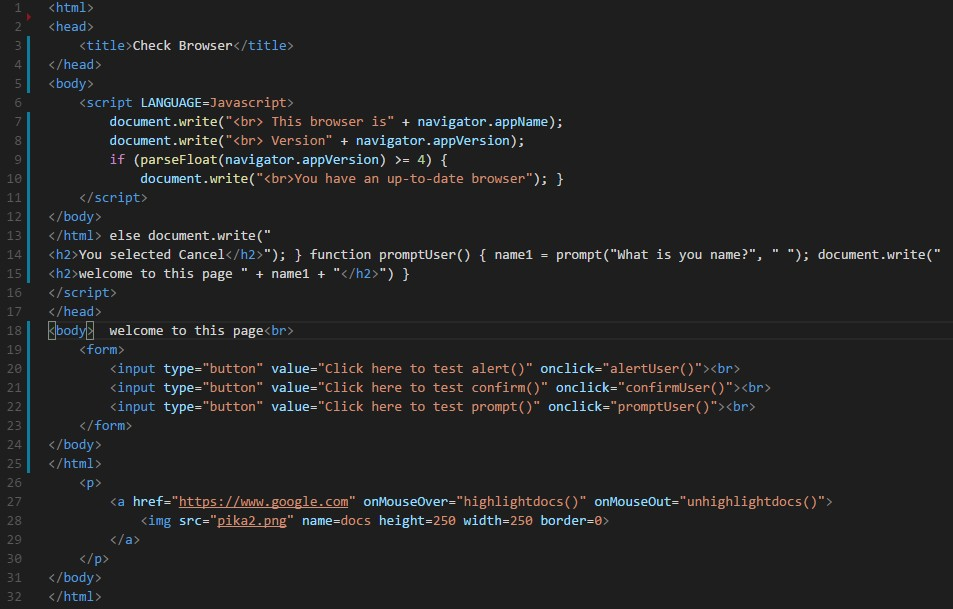
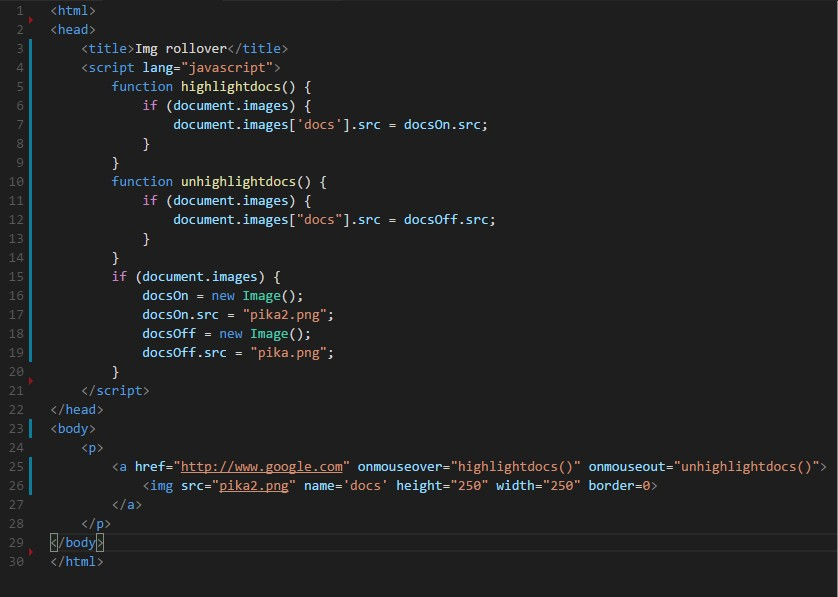
js08up

diff --git a/lab04/lab04.html b/lab04/lab04.html
@@ -298,11 +298,6 @@
                     <h4><b>อธิบาย Coad</b></h4>
                 </center>
                 <h5>7.สร้างฟังก์ชั่น windowHeight <br><br> 8.ตรวจสอบว่าเป็น Browser IE หรือไม่ <br><br> 9.ใช้เงื่อนไข if else ถ้าตรงให้คืนค่าความสูงหน้าจอมา<br><br> 10-11.ตรวจสอบว่าเป็น Browser Netscape หรือไม่<br><br> 12-13.ถ้าไม่ตรงเงื่อนไขให้คืนค่า 0 มา<br><br>                    16-17.ใช้ if else ตรวจสอบหน้าจอว่ามากกว่าหรือเท่ากับ 300 หรือไม่ ถ้าตรงเงื่อนไขให้ลิ้งไปแลป4<br><br> 20-21.ถ้าไม่เข้าเงื่อไขให้ลิ้งไปหน้า http://angsila.cs.buu.ac.th/~58160641/887371/lab04/
-
-
-
-
-
                 </h5>
             </div>
             <a href="js07.html"> <button style="margin-top: 5%" type="button" class="btn btn-danger">ผลรัน</button></a>
@@ -314,8 +309,25 @@
     </div>
     <div id="js08" class="container-fluid">
         <h1>Js 8 </h1>
-        <p>Try to scroll this section and look at the navigation bar while scrolling! Try to scroll this section and look at the navigation bar while scrolling!</p>
-        <p>Try to scroll this section and look at the navigation bar while scrolling! Try to scroll this section and look at the navigation bar while scrolling!</p>
+        <h4><b>Coad</b>
+        </h4>
+        <div style="overflow: auto;width: 600px;height: 300px;float: left;margin-left: 5%;">
+            <img style="overflow: auto;float: left;" src="js08.jpg">
+        </div>
+        <div class="gallry">
+            <div>
+                <center>
+                    <h4><b>อธิบาย Coad</b></h4>
+                </center>
+                <h5>7.สร้างฟังก์ชั่น windowHeight <br><br> 8.ตรวจสอบว่าเป็น Browser IE หรือไม่ <br><br> 9.ใช้เงื่อนไข if else ถ้าตรงให้คืนค่าความสูงหน้าจอมา<br><br> 10-11.ตรวจสอบว่าเป็น Browser Netscape หรือไม่<br><br> 12-13.ถ้าไม่ตรงเงื่อนไขให้คืนค่า 0 มา<br><br>                    16-17.ใช้ if else ตรวจสอบหน้าจอว่ามากกว่าหรือเท่ากับ 300 หรือไม่ ถ้าตรงเงื่อนไขให้ลิ้งไปแลป4<br><br> 20-21.ถ้าไม่เข้าเงื่อไขให้ลิ้งไปหน้า http://angsila.cs.buu.ac.th/~58160641/887371/lab04/
+                </h5>
+            </div>
+            <a href="js08.html"> <button style="margin-top: 5%" type="button" class="btn btn-danger">ผลรัน</button></a>
+        </div>
+    </div>
+    </div>
+    </div>
+
     </div>
     <div id="js09" class="container-fluid">
         <h1>Js 9 </h1>

diff --git a/lab04/js08.html b/lab04/js08.html
@@ -1,39 +1,34 @@
 <html>
 
 <head>
-    <title>Check Browser</title>
+    <title>Img rollover</title>
+    <script lang="javascript">
+        function highlightdocs() {
+            if (document.images) {
+                document.images['docs'].src = docsOn.src;
+            }
+        }
+
+        function unhighlightdocs() {
+            if (document.images) {
+                document.images["docs"].src = docsOff.src;
+            }
+        }
+        if (document.images) {
+            docsOn = new Image();
+            docsOn.src = "pika2.png";
+            docsOff = new Image();
+            docsOff.src = "pika.png";
+        }
+    </script>
 </head>
 
 <body>
-    <script LANGUAGE=Javascript>
-        document.write("<br> This browser is" + navigator.appName);
-        document.write("<br> Version" + navigator.appVersion);
-        if (parseFloat(navigator.appVersion) >= 4) {
-            document.write("<br>You have an up-to-date browser");
-        }
-    </script>
-</body>
-
-</html> else document.write("
-<h2>You selected Cancel</h2>"); } function promptUser() { name1 = prompt("What is you name?", " "); document.write("
-<h2>welcome to this page " + name1 + "</h2>") }
-</script>
-</head>
-
-<body> welcome to this page<br>
-    <form>
-        <input type="button" value="Click here to test alert()" onclick="alertUser()"><br>
-        <input type="button" value="Click here to test confirm()" onclick="confirmUser()"><br>
-        <input type="button" value="Click here to test prompt()" onclick="promptUser()"><br>
-    </form>
-</body>
-
-</html>
-<p>
-    <a href="https://www.google.com" onMouseOver="highlightdocs()" onMouseOut="unhighlightdocs()">
-        <img src="pika2.png" name=docs height=250 width=250 border=0>
-    </a>
-</p>
+    <p>
+        <a href="http://www.google.com" onmouseover="highlightdocs()" onmouseout="unhighlightdocs()">
+            <img src="pika2.png" name='docs' height="250" width="250" border=0>
+        </a>
+    </p>
 </body>
 
 </html>
